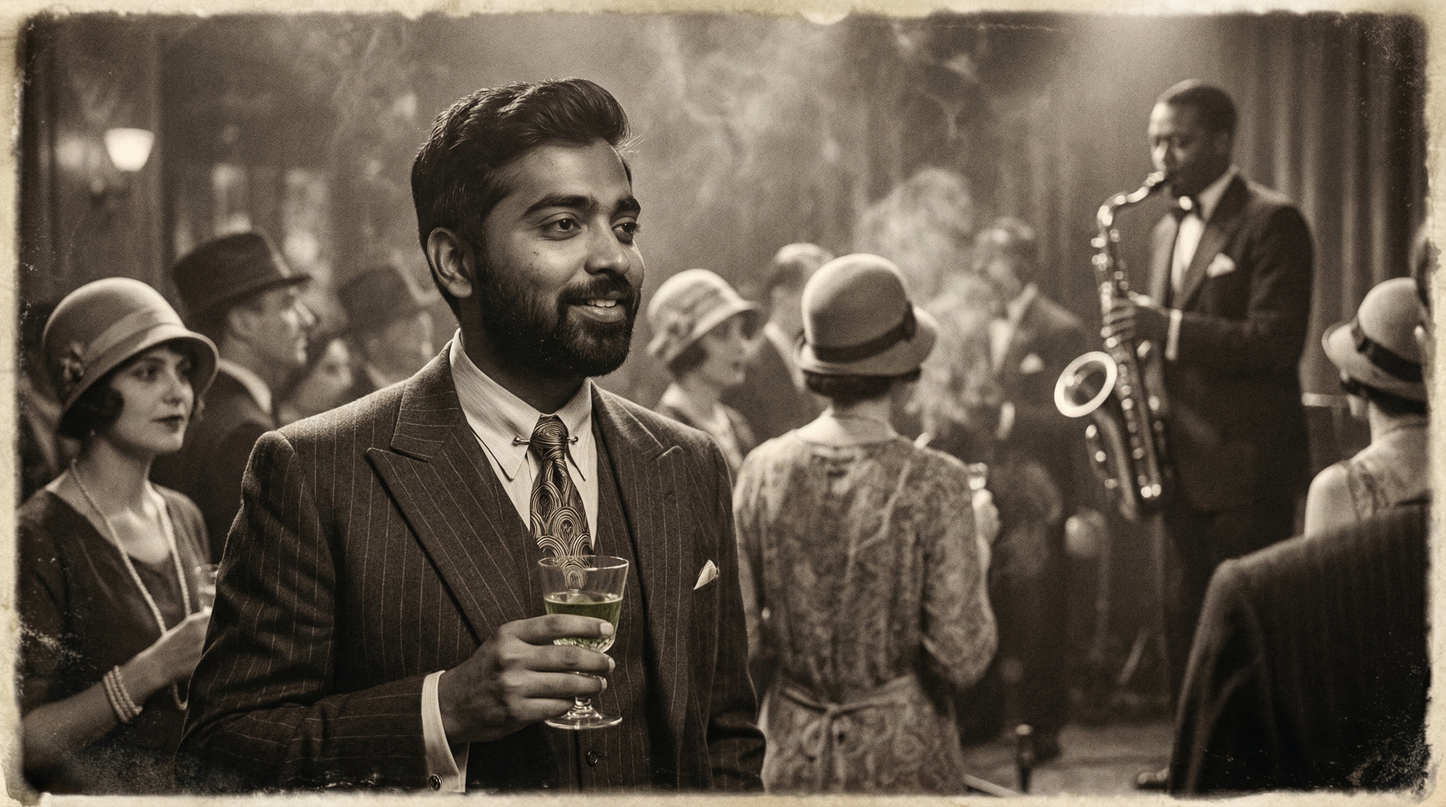
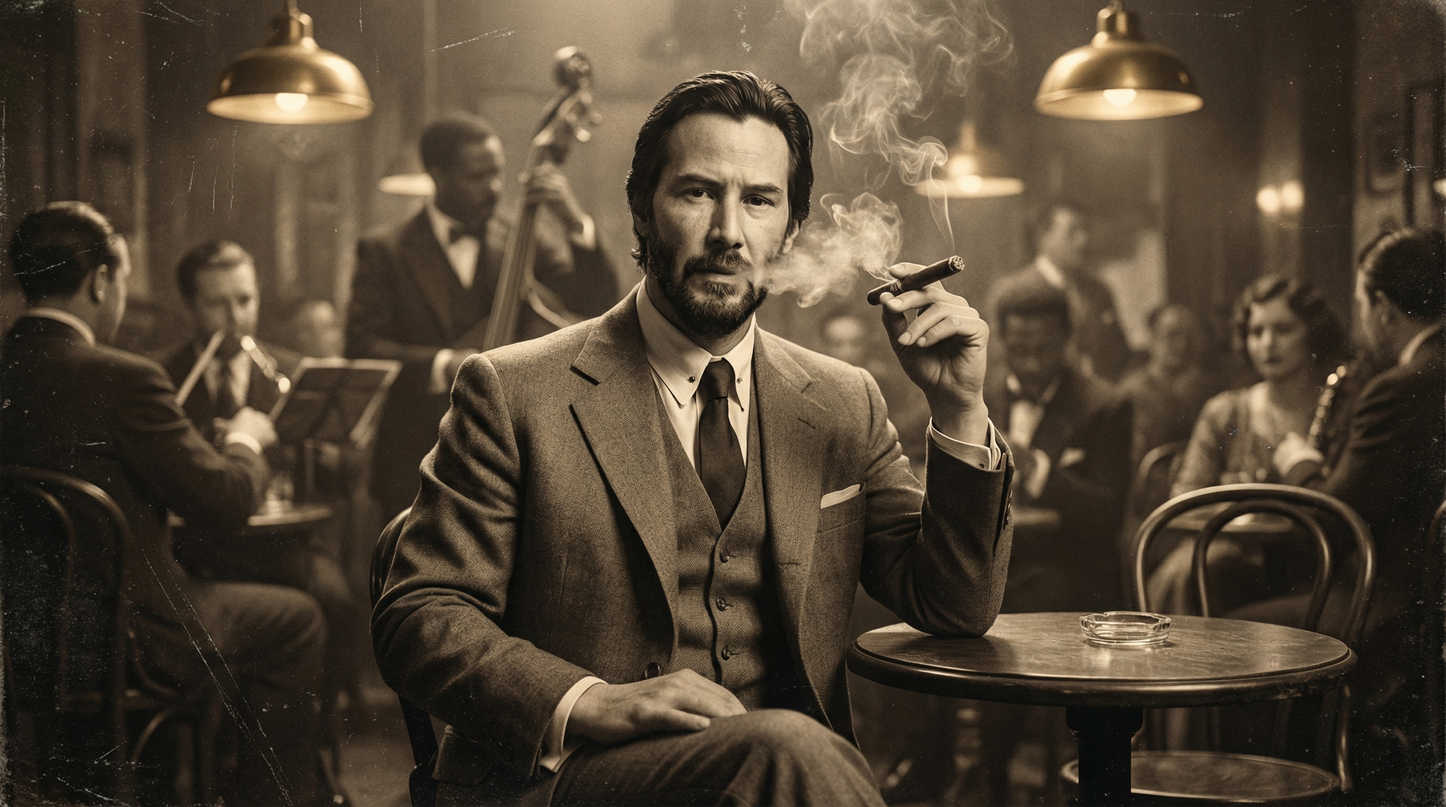
feat: update male showcase images with celebrity references (Elon Musk, Keanu Reeves) and add magazine cover

diff --git a/scripts/generateMaleShowcase.ts b/scripts/generateMaleShowcase.ts
@@ -1,6 +1,6 @@
 /**
  * Time Traveller Male Showcase Image Generator
- * Uses Rohit Ghumare's reference images from Supabase to generate male showcase images
+ * Uses Celebrity reference images from Wikimedia Commons for stable, high-quality masculine references
  * Usage: GEMINI_API_KEY=your_key npx tsx scripts/generateMaleShowcase.ts
  */
 
@@ -20,91 +20,90 @@ const ai = new GoogleGenAI({ apiKey: GEMINI_API_KEY });
 
 const OUTPUT_DIR = path.join(__dirname, '../frontend/assets/showcase');
 
-// Rohit Ghumare's reference images from Supabase
+// Celebrity reference images from Wikimedia Commons for stable, high-quality masculine references
 const REFERENCE_IMAGES = {
-  shibuya1: 'https://lbqobnxmewwmeqdodger.supabase.co/storage/v1/object/public/time-traveller-images/teleport-907e526a-0cf1-4d06-bb8d-fa1894f98094-1764593060893/reference-1764593060893.jpg',
-  shibuya2: 'https://lbqobnxmewwmeqdodger.supabase.co/storage/v1/object/public/time-traveller-images/teleport-907e526a-0cf1-4d06-bb8d-fa1894f98094-1764592937389/reference-1764592937389.jpg',
-  shibuya3: 'https://lbqobnxmewwmeqdodger.supabase.co/storage/v1/object/public/time-traveller-images/teleport-907e526a-0cf1-4d06-bb8d-fa1894f98094-1764592740964/reference-1764592740964.jpg',
-  tokyo1: 'https://lbqobnxmewwmeqdodger.supabase.co/storage/v1/object/public/time-traveller-images/teleport-907e526a-0cf1-4d06-bb8d-fa1894f98094-1764592653451/reference-1764592653452.jpg',
-  tokyo2: 'https://lbqobnxmewwmeqdodger.supabase.co/storage/v1/object/public/time-traveller-images/teleport-907e526a-0cf1-4d06-bb8d-fa1894f98094-1764592455033/reference-1764592455034.jpg',
-  seattle: 'https://lbqobnxmewwmeqdodger.supabase.co/storage/v1/object/public/time-traveller-images/teleport-907e526a-0cf1-4d06-bb8d-fa1894f98094-1764412210031/reference-1764412210031.jpg',
-  mumbai1: 'https://lbqobnxmewwmeqdodger.supabase.co/storage/v1/object/public/time-traveller-images/teleport-907e526a-0cf1-4d06-bb8d-fa1894f98094-1764615934487/reference-1764615934487.jpg',
-  mumbai2: 'https://lbqobnxmewwmeqdodger.supabase.co/storage/v1/object/public/time-traveller-images/teleport-907e526a-0cf1-4d06-bb8d-fa1894f98094-1764615837722/reference-1764615837723.jpg',
+  elon_musk: 'https://upload.wikimedia.org/wikipedia/commons/e/ed/Elon_Musk_Royal_Society.jpg',
+  keanu_reeves: 'https://upload.wikimedia.org/wikipedia/commons/9/90/Keanu_Reeves_%28crop_and_levels%29_%28cropped%29.jpg',
 };
 
 const maleShowcaseImages = [
   {
     filename: 'male-tokyo-ramen-night.png',
-    referenceUrl: REFERENCE_IMAGES.shibuya1,
-    prompt: `Using this reference photo of the man, create a hyper-realistic candid photo of him enjoying ramen at a tiny Tokyo ramen shop at night. He's sitting at the counter, chopsticks in hand, steam rising from the bowl. Warm yellow lighting from paper lanterns, Japanese characters on the wall menu. He's looking at the camera with a genuine smile. Authentic izakaya atmosphere with other diners visible. 8K resolution, candid smartphone photography aesthetic, sharp focus on eyes. Keep the same person's face and features from the reference.`,
+    referenceUrl: REFERENCE_IMAGES.elon_musk,
+    prompt: `Using the reference photo of Elon Musk, create a hyper-realistic candid photo of him enjoying ramen at a tiny Tokyo ramen shop at night. He's sitting at the counter, chopsticks in hand, steam rising from the bowl. Warm yellow lighting from paper lanterns. He looks like a visionary entrepreneur taking a break. Authentic izakaya atmosphere. 8K resolution, candid smartphone photography aesthetic. Maintain his iconic facial features and billionaire charisma.`,
   },
   {
     filename: 'male-seoul-street-food.png',
-    referenceUrl: REFERENCE_IMAGES.shibuya2,
-    prompt: `Using this reference photo of the man, create a hyper-realistic candid photo of him at a Seoul pojangmacha (street tent bar) at night. He's holding soju and eating Korean BBQ. Red and orange tent lighting, steam from cooking, other customers chatting. He looks back over his shoulder at the camera with a relaxed expression. Authentic Korean street food atmosphere. 8K resolution, raw candid style. Keep the same person's face and features.`,
+    referenceUrl: REFERENCE_IMAGES.keanu_reeves,
+    prompt: `Using the reference photo of Keanu Reeves, create a hyper-realistic candid photo of him at a Seoul pojangmacha (street tent bar) at night. He's eating Korean BBQ and looking relaxed. Red and orange tent lighting, steam from cooking. He has a rugged, handsome, and mature masculine look. 8K resolution, raw candid style. Maintain his famous facial structure and charismatic presence.`,
   },
   {
     filename: 'male-cyberpunk-tokyo.png',
-    referenceUrl: REFERENCE_IMAGES.tokyo1,
-    prompt: `Using this reference photo of the man, create a hyper-realistic cyberpunk image of him in Neo-Tokyo 2099. He's wearing a sleek cyber-enhanced jacket with LED accents. Massive holographic advertisements, flying cars, neon-lit skyscrapers. Rain-slicked streets reflecting neon lights. He's looking at the camera with a confident expression. Blade Runner meets Ghost in the Shell aesthetic. 8K resolution, cinematic. Keep the same person's face.`,
+    referenceUrl: REFERENCE_IMAGES.keanu_reeves,
+    prompt: `Using the reference photo of Keanu Reeves, create a hyper-realistic cyberpunk image of him in Neo-Tokyo 2099. He's wearing a sleek cyber-enhanced tactical jacket. Massive holographic advertisements, neon-lit skyscrapers. Rain-slicked streets. He looks like a legendary action hero from a sci-fi epic. 8K resolution, cinematic. Maintain his iconic stoic and masculine appearance.`,
   },
   {
     filename: 'male-mars-colony.png',
-    referenceUrl: REFERENCE_IMAGES.seattle,
-    prompt: `Using this reference photo of the man, create a photorealistic image of him inside a Mars colony biodome in 2150. Red Martian landscape visible through the dome. Futuristic botanical gardens, hydroponic farms. He's wearing a sleek Mars Corporation jumpsuit, helmet under arm. Looking at camera with wonder and determination. Terraforming equipment visible. 8K resolution. Keep the same person's face.`,
+    referenceUrl: REFERENCE_IMAGES.elon_musk,
+    prompt: `Using the reference photo of Elon Musk, create a photorealistic image of him as the lead visionary inside a Mars colony biodome in 2150. Red Martian landscape visible through the dome. He's wearing a sleek SpaceX commander jumpsuit. He looks determined and heroic. 8K resolution. Maintain his strong facial features and pioneering aura.`,
   },
   {
     filename: 'male-paris-cafe.png',
-    referenceUrl: REFERENCE_IMAGES.shibuya3,
-    prompt: `Using this reference photo of the man, create a hyper-realistic candid photo of him at a Parisian café terrace. He's wearing a casual but stylish outfit, enjoying a coffee. Eiffel Tower visible in the background. Classic bistro chairs, croissant on the table. Golden hour lighting. 8K resolution, lifestyle photography. Keep the same person's face and features.`,
+    referenceUrl: REFERENCE_IMAGES.elon_musk,
+    prompt: `Using the reference photo of Elon Musk, create a hyper-realistic candid photo of him at a Parisian café terrace. He's wearing a sophisticated tailored outfit, enjoying an espresso. Eiffel Tower in background. Golden hour lighting. He looks like a global tech icon on a European getaway. 8K resolution, high-end lifestyle photography. Maintain his sharp masculine profile.`,
   },
   {
     filename: 'male-1920s-jazz.png',
-    referenceUrl: REFERENCE_IMAGES.mumbai1,
-    prompt: `Using this reference photo of the man, create a vintage-style photo of him in 1920s Paris during the Jazz Age. He's wearing a sharp suit with art deco accessories at a smoky jazz club. Sepia tones, film grain, soft focus. Other patrons in the background. Authentic 1920s atmosphere with period-accurate details. Gatsby-era elegance. Keep the same person's face.`,
+    referenceUrl: REFERENCE_IMAGES.keanu_reeves,
+    prompt: `Using the reference photo of Keanu Reeves, create a vintage-style photo of him in 1920s Paris during the Jazz Age. He's wearing a sharp period-accurate tailored suit at a smoky jazz club. Sepia tones, film grain. He looks like a powerful, mysterious gentleman from that era. 8K resolution. Maintain his distinct facial features and legendary elegance.`,
   },
   {
     filename: 'male-tokyo-city-pop.png',
-    referenceUrl: REFERENCE_IMAGES.tokyo2,
-    prompt: `Using this reference photo of the man, create a retro 1980s Japanese City Pop aesthetic image. He's in 80s fashion (oversized blazer, cool accessories) at a Tokyo disco. Neon lights, mirror ball, pastel colors. VHS quality grain, soft glow. Other dancers in the background. Authentic 80s Japanese bubble era aesthetic. Nostalgic, dreamy. Keep the same person's face.`,
+    referenceUrl: REFERENCE_IMAGES.elon_musk,
+    prompt: `Using the reference photo of Elon Musk, create a retro 1980s Japanese City Pop aesthetic image. He's in 80s Tokyo fashion at a neon-lit disco. Mirror ball reflections, pastel colors. VHS quality grain, soft glow. He looks like a cool, innovative star from an 80s movie. Authentic 80s Japanese bubble era aesthetic. Maintain his facial features.`,
   },
   {
     filename: 'male-midnight-hotel-grid.png',
-    referenceUrl: REFERENCE_IMAGES.mumbai2,
-    prompt: `Using this reference photo of the man, create a sophisticated 3x3 cinematic contact sheet grid titled "深夜 MIDNIGHT" featuring him in a luxury Tokyo hotel room at night.
-
+    referenceUrl: REFERENCE_IMAGES.keanu_reeves,
+    prompt: `Using the reference photo of Keanu Reeves, create a sophisticated 3x3 cinematic contact sheet grid titled "深夜 MIDNIGHT" featuring him in a luxury Tokyo hotel room at night.
+    
 Row 1: 
-1. Looking out floor-to-ceiling window at Tokyo skyline, holding whiskey glass
-2. Adjusting tie in mirror, city lights reflected
-3. Walking down a long hotel corridor
+1. His powerful silhouette looking out window at Tokyo skyline
+2. Close-up of him adjusting a sharp suit in a mirror, city lights reflected
+3. Walking down a long hotel corridor with a commanding expression
 
 Row 2:
-4. Lounging on velvet sofa, relaxed pose
-5. Close-up sipping from crystal glass
-6. Extreme close-up of hand holding glass
+4. Lounging on a sofa, looking thoughtful and intense
+5. Close-up of his face sipping whiskey
+6. Extreme close-up of his hand holding the glass
 
 Row 3:
-7. Silhouette against window, city lights creating halo
-8. Extreme close-up of eyes with city lights reflected
-9. Watch on nightstand with bokeh lights
+7. Dark silhouette against the city lights
+8. Extreme close-up of his focused eyes
+9. Luxury watch on the table
 
-Same person throughout, moody blue and gold lighting. Japanese title typography at bottom. Keep the same person's face from reference.`,
+Same celebrity throughout, moody blue and gold lighting. Japanese title typography. Maintain his distinct sharp masculine features.`,
   },
   {
     filename: 'male-floating-library.png',
-    referenceUrl: REFERENCE_IMAGES.shibuya1,
-    prompt: `Using this reference photo of the man, create a surrealist image of him in an infinite floating library. Books and bookshelves floating in impossible orientations, defying gravity. He's sitting on a floating armchair reading, surrounded by glowing orbs of light. MC Escher meets Studio Ghibli aesthetic. Dreamlike atmosphere, impossible architecture. 8K resolution. Keep the same person's face.`,
+    referenceUrl: REFERENCE_IMAGES.elon_musk,
+    prompt: `Using the reference photo of Elon Musk, create a surrealist image of him in an infinite floating library. Books floating in impossible orientations. He's sitting on a floating armchair, looking like a visionary traveler of time and space. Dreamlike atmosphere. 8K resolution. Maintain his well-known intense facial structure.`,
   },
   {
     filename: 'male-ancient-samurai.png',
-    referenceUrl: REFERENCE_IMAGES.tokyo1,
-    prompt: `Using this reference photo of the man, create an oil painting style image of him as a samurai warrior in feudal Japan. He's wearing traditional samurai armor, standing in a cherry blossom garden. Mount Fuji in the background. Classical oil painting technique with rich colors, visible brushstrokes. Museum-quality painting aesthetic. Keep the same person's face but in the painting style.`,
+    referenceUrl: REFERENCE_IMAGES.keanu_reeves,
+    prompt: `Using the reference photo of Keanu Reeves, create an oil painting style image of him as a legendary samurai warrior in feudal Japan. He's wearing ornate samurai armor in a cherry blossom garden. Mount Fuji in background. Classical oil painting technique. He looks like a noble and powerful warrior. Maintain his iconic facial features in the painting style.`,
+  },
+  {
+    filename: 'male-magazine-cover.png',
+    referenceUrl: REFERENCE_IMAGES.keanu_reeves,
+    prompt: `Using the reference photo of Keanu Reeves, create a high-end fashion magazine cover (like GQ or Vogue Hommes) featuring him. He's wearing a sophisticated designer suit, looking directly at the camera with a mysterious and intense gaze. High-contrast studio lighting, sharp focus. Modern magazine layout with elegant typography. He looks like a world-class icon and style leader. 8K resolution, professional editorial photography. Maintain his iconic facial features and charismatic presence.`,
   },
 ];
 
 async function fetchImageAsBase64(url: string): Promise<{ data: string; mimeType: string } | null> {
   try {
-    console.log(`   📥 Fetching reference from Supabase...`);
+    console.log(`   📥 Fetching reference: ${url.split('/').pop()}...`);
     const response = await fetch(url);
     if (!response.ok) {
       console.log(`   ⚠ Failed to fetch: ${response.status}`);
@@ -126,7 +125,7 @@ async function generateImage(config: typeof maleShowcaseImages[0]): Promise<stri
   try {
     const parts: Array<{ text?: string; inlineData?: { data: string; mimeType: string } }> = [];
     
-    // Fetch reference image from Supabase
+    // Fetch reference image
     const refImage = await fetchImageAsBase64(config.referenceUrl);
     if (refImage) {
       parts.push({
@@ -210,9 +209,8 @@ async function generateImage(config: typeof maleShowcaseImages[0]): Promise<stri
 }
 
 async function main() {
-  console.log('🚀 Male Showcase Image Generator');
-  console.log('=================================');
-  console.log('Using Rohit Ghumare\'s reference images from Supabase');
+  console.log('🚀 Male Showcase Image Generator (Celebrity Edition)');
+  console.log('====================================================');
   console.log(`📁 Output: ${OUTPUT_DIR}`);
   console.log(`📷 Images to generate: ${maleShowcaseImages.length}\n`);
   
@@ -239,7 +237,7 @@ async function main() {
     }
   }
   
-  console.log('\n=================================');
+  console.log('\n====================================================');
   console.log(`📊 Complete! ✅ ${results.success.length}/${maleShowcaseImages.length} | ❌ ${results.failed.length}`);
   
   if (results.success.length > 0) {
@@ -254,4 +252,3 @@ async function main() {
 }
 
 main().catch(console.error);
-

diff --git a/frontend/App.tsx b/frontend/App.tsx
@@ -155,24 +155,30 @@ const AppContent: React.FC = () => {
           const serverHistory = await api.getHistory();
           console.log('[History] Cloud records found:', serverHistory?.length || 0);
           
-          if (serverHistory && serverHistory.length > 0) {
-            const formattedHistory: TravelLogItem[] = serverHistory.map(item => ({
+          if (serverHistory) {
+            const formattedServerHistory: TravelLogItem[] = serverHistory.map(item => ({
               ...item,
               imageData: item.imageUrl || item.imageData || '',
               referenceImage: item.referenceImageUrl || item.referenceImage,
               aspectRatio: item.aspectRatio as AspectRatio
             }));
             
-            // For logged in users, server is the source of truth
-            setHistory(formattedHistory);
-            console.log('[History] State updated with cloud records');
-          } else {
-            console.log('[History] Cloud storage is empty for this user.');
-            // If server returns empty, but we have local records, we KEEP local records
-            // but log it. This might happen if cloud save failed previously.
-            if (localHistory.length > 0) {
-              console.log('[History] Keeping local records since cloud is empty');
-            }
+            // Merge local and server history to prevent data loss
+            // Server data takes precedence for items with same ID
+            const mergedHistory = [...formattedServerHistory];
+            const serverIds = new Set(formattedServerHistory.map(item => item.id));
+            
+            localHistory.forEach(localItem => {
+              if (!serverIds.has(localItem.id)) {
+                mergedHistory.push(localItem);
+              }
+            });
+
+            // Sort by timestamp descending
+            mergedHistory.sort((a, b) => b.timestamp - a.timestamp);
+            
+            setHistory(mergedHistory);
+            console.log('[History] State updated with merged records:', mergedHistory.length);
           }
         } catch (err) {
           console.error('[History] Sync failed:', err);
